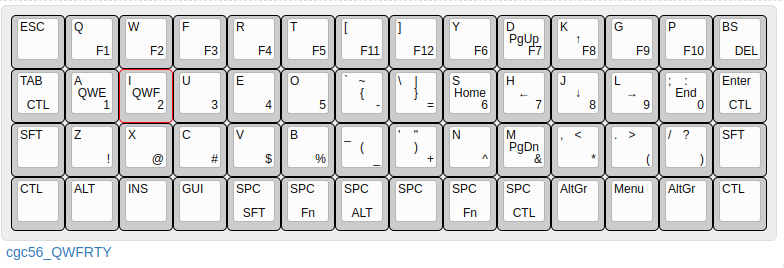
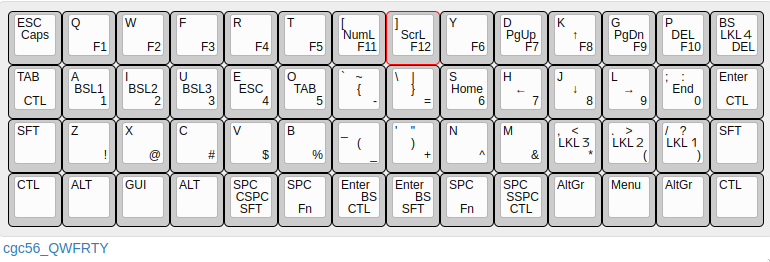
HTML rebuilt: 2022-02-23T02:51:37+00:00

diff --git a/jp/2022/02/14/qwfrty/index.html b/jp/2022/02/14/qwfrty/index.html
@@ -36,7 +36,7 @@
 
 <h3 class="date">Date:
 2022/02/14 (initial publish),
-2022/02/20 (last update)
+2022/02/23 (last update)
 </h3>
 </div>
 
@@ -91,16 +91,21 @@
 <p>今回完成したキーボードは、PLANCKより4x14と幅があることを利用して、左右の手の間隔をとり、真ん中の余裕の部分に頻出記号キーを押し込んでいます。</p>
 <ul>
 <li>PLANCKよりは普通のキーボードに近いキー配列になっています。</li>
-<li>2つあるFnキーのうち１つ押しだと数字・記号・F1-F12キーです。(現状、左右の差はありません)</li>
-<li>Fnキー２つ同時押しでカーソールキーにアクセスできます。ちょうどこれがVIMの「<code>hjkl</code>」と同じ位置です。</li>
+<li>2つあるFnキーのうち１つ押しだと数字・記号・F1-F12キーです。(現状、ほぼ左右の差はありません)</li>
+<li>Fnキー２つ同時押しでカーソールキーにアクセスできます。ちょうどこれがQWFRTY配列だとVIMの「<code>hjkl</code>」と同じ位置です。</li>
 <li>Fnキー無しのデフォルトのキー配列は、QWERTY配列とQWFRTY配列が切り替えられます。</li>
 </ul>
-<p>ここで、QWFRTY配列をデフォルトのキー配列した際の、Fnキーによるキー配列変化は以下です。</p>
-<p><img src="/img/QWFRTY-3.png" alt="QWFRTY　３段">
-<a href="http://www.keyboard-layout-editor.com/#/gists/b677dff2db907d27eb84b4d7ea741394">cgc56 QWFRTY キーボードデータ 3段</a></p>
+<p>デフォルトのキー配列は、QWERTY配列とQWFRTY配列があり、更にFnキーによるキー配列変化をします。</p>
+<p><img src="/img/cgc56-4.png" alt="cgc56 full"></p>
+<p>元データー: <a href="http://www.keyboard-layout-editor.com/#/gists/faf55be2e2240ece6e2a82f5aba8add2">cgc56 キーボードデータ 全体</a></p>
 <p>使ってみて意外とおもしろいので、ここに要点等をメモしておきます。</p>
 <p>ずぼらな性格上、DVORAK, COLMAK, WORKMAN, COLEMAK-DHのいずれも学習障壁が高すぎました。(これらの有名配置だと、VIエディターでのカーソール移動も難しくなってしまいます)。</p>
 <p>元々は中指を伸ばして「<code>E</code>」を叩きづらいという個人的課題解決目的のキーボードプロジェクトでした。これだけなら<code>E</code>と<code>F</code>のスワップで済ますのも良いのですが、それだけでは勿体ないので、苦労しない範囲でDVRAKの交互打鍵に近づけられないかと考えた妥協点案が「QWFRTY配列」です。これはあくまでQMKを利用した自作キーボードの最適化キー配列実験で、私の日常生活はQWERTY配列です。</p>
+<p>ちなみに、押されたキーのチェックやNKRO機能のチェックには、以下が便利でした。</p>
+<ul>
+<li><a href="https://www.microsoft.com/applied-sciences/projects/anti-ghosting-demo">Keyboard ghosting interactive demonstration</a></li>
+<li><a href="https://drakeirving.github.io/MultiKeyDisplay/">Keyboard Ghosting Demonstration</a></li>
+</ul>
 <h2 id="qwfrty配列">QWFRTY配列</h2>
 <p>「QWFRTY配列」は、11個のキーだけが標準の「QWERTY配列」から移動された配列です。</p>
 <p>名前は、１文字違いでややこしいですが、「<strong>QWFRTY配列</strong>」としました。キーは位置の要点を抜き出すと以下です。</p>
